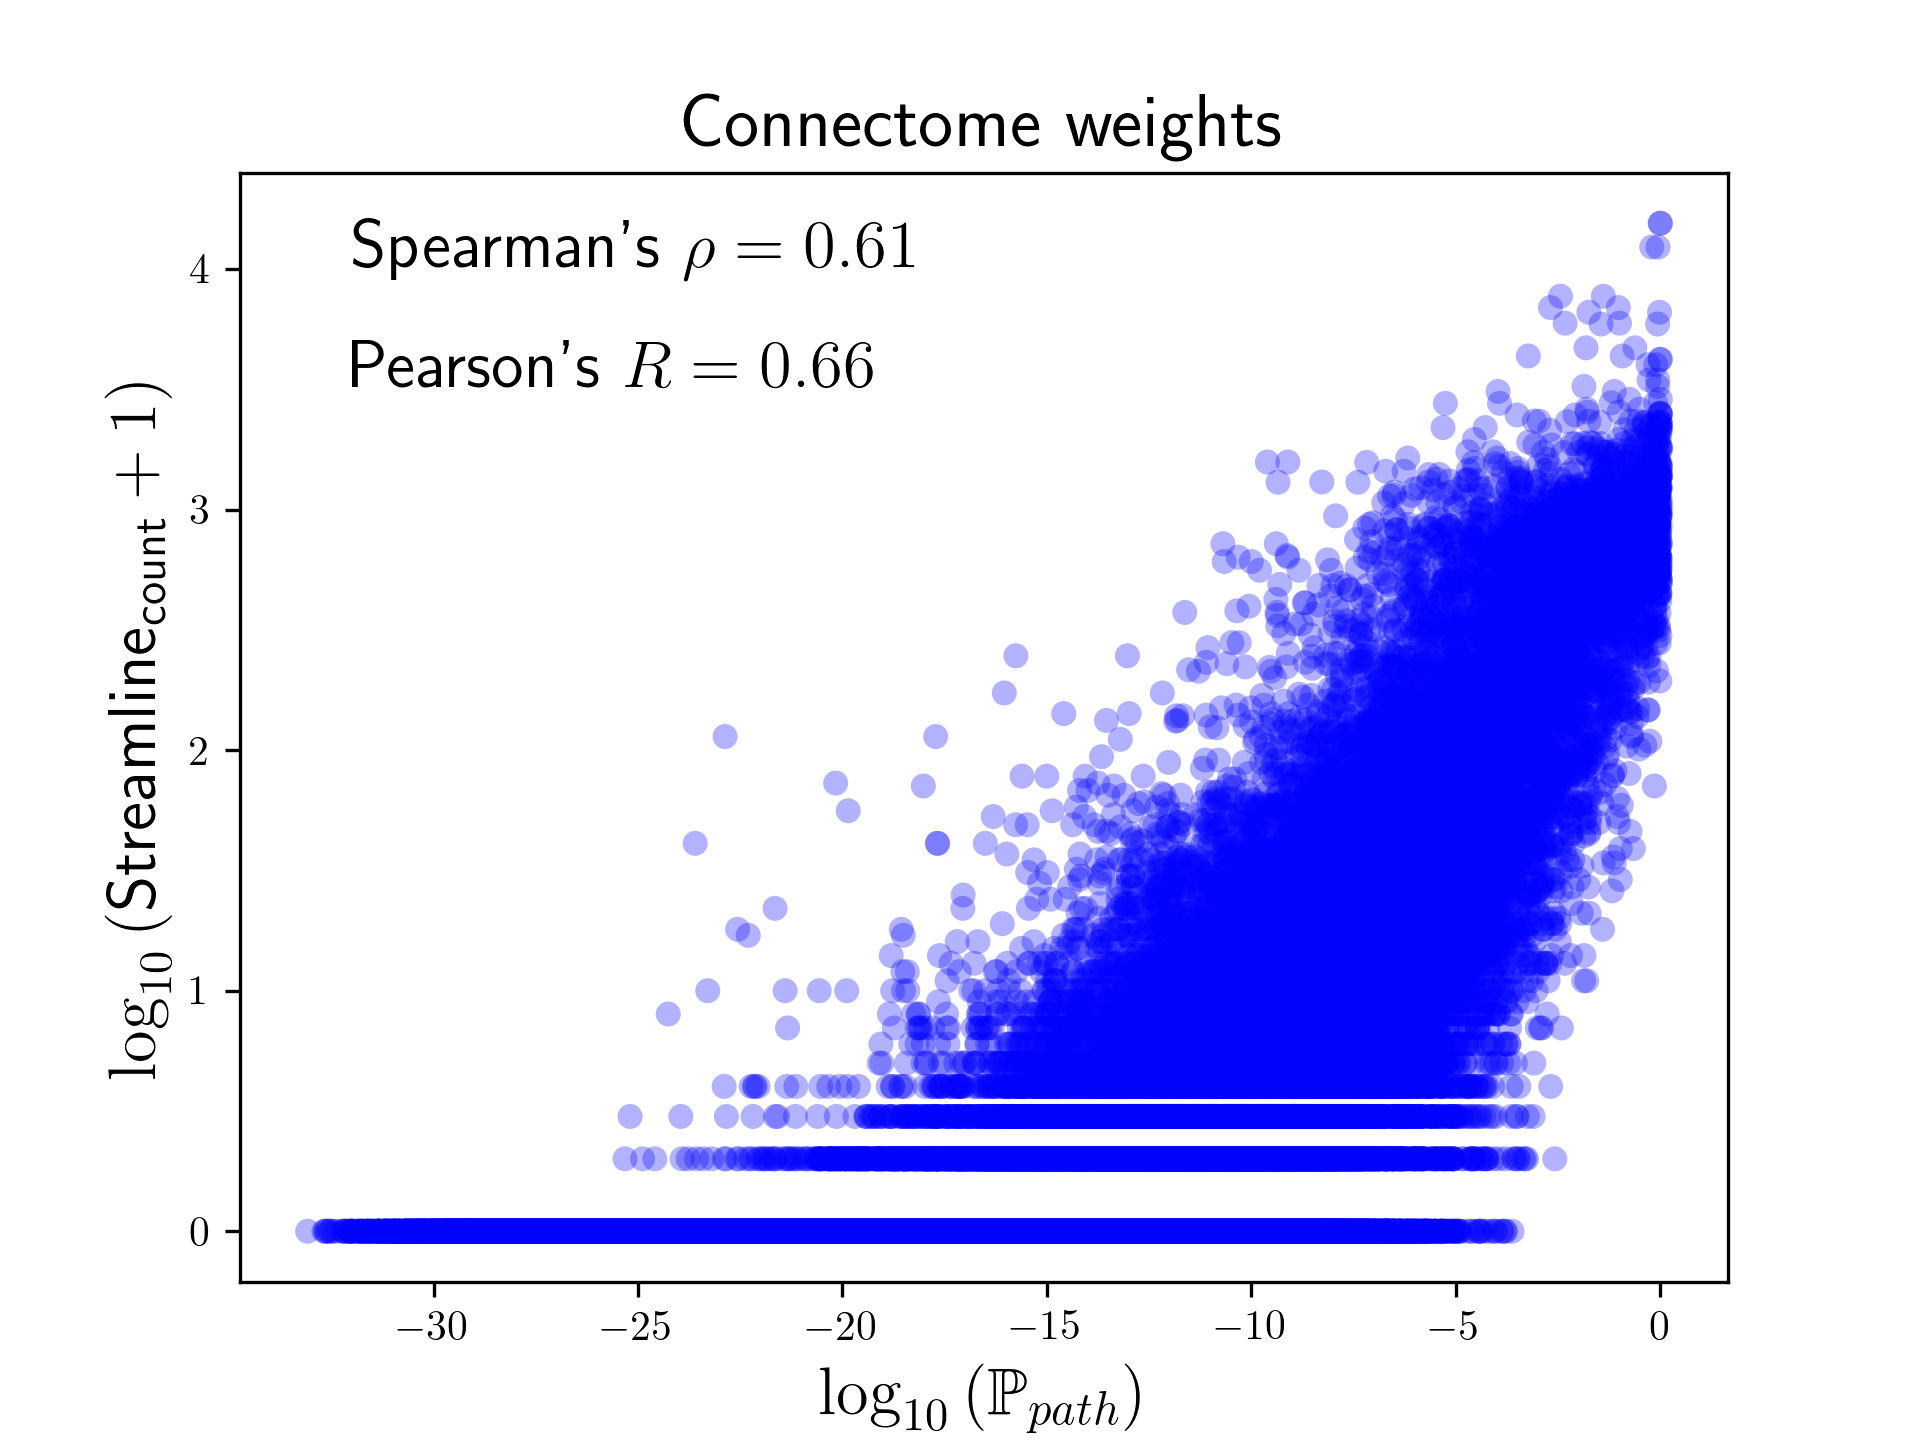
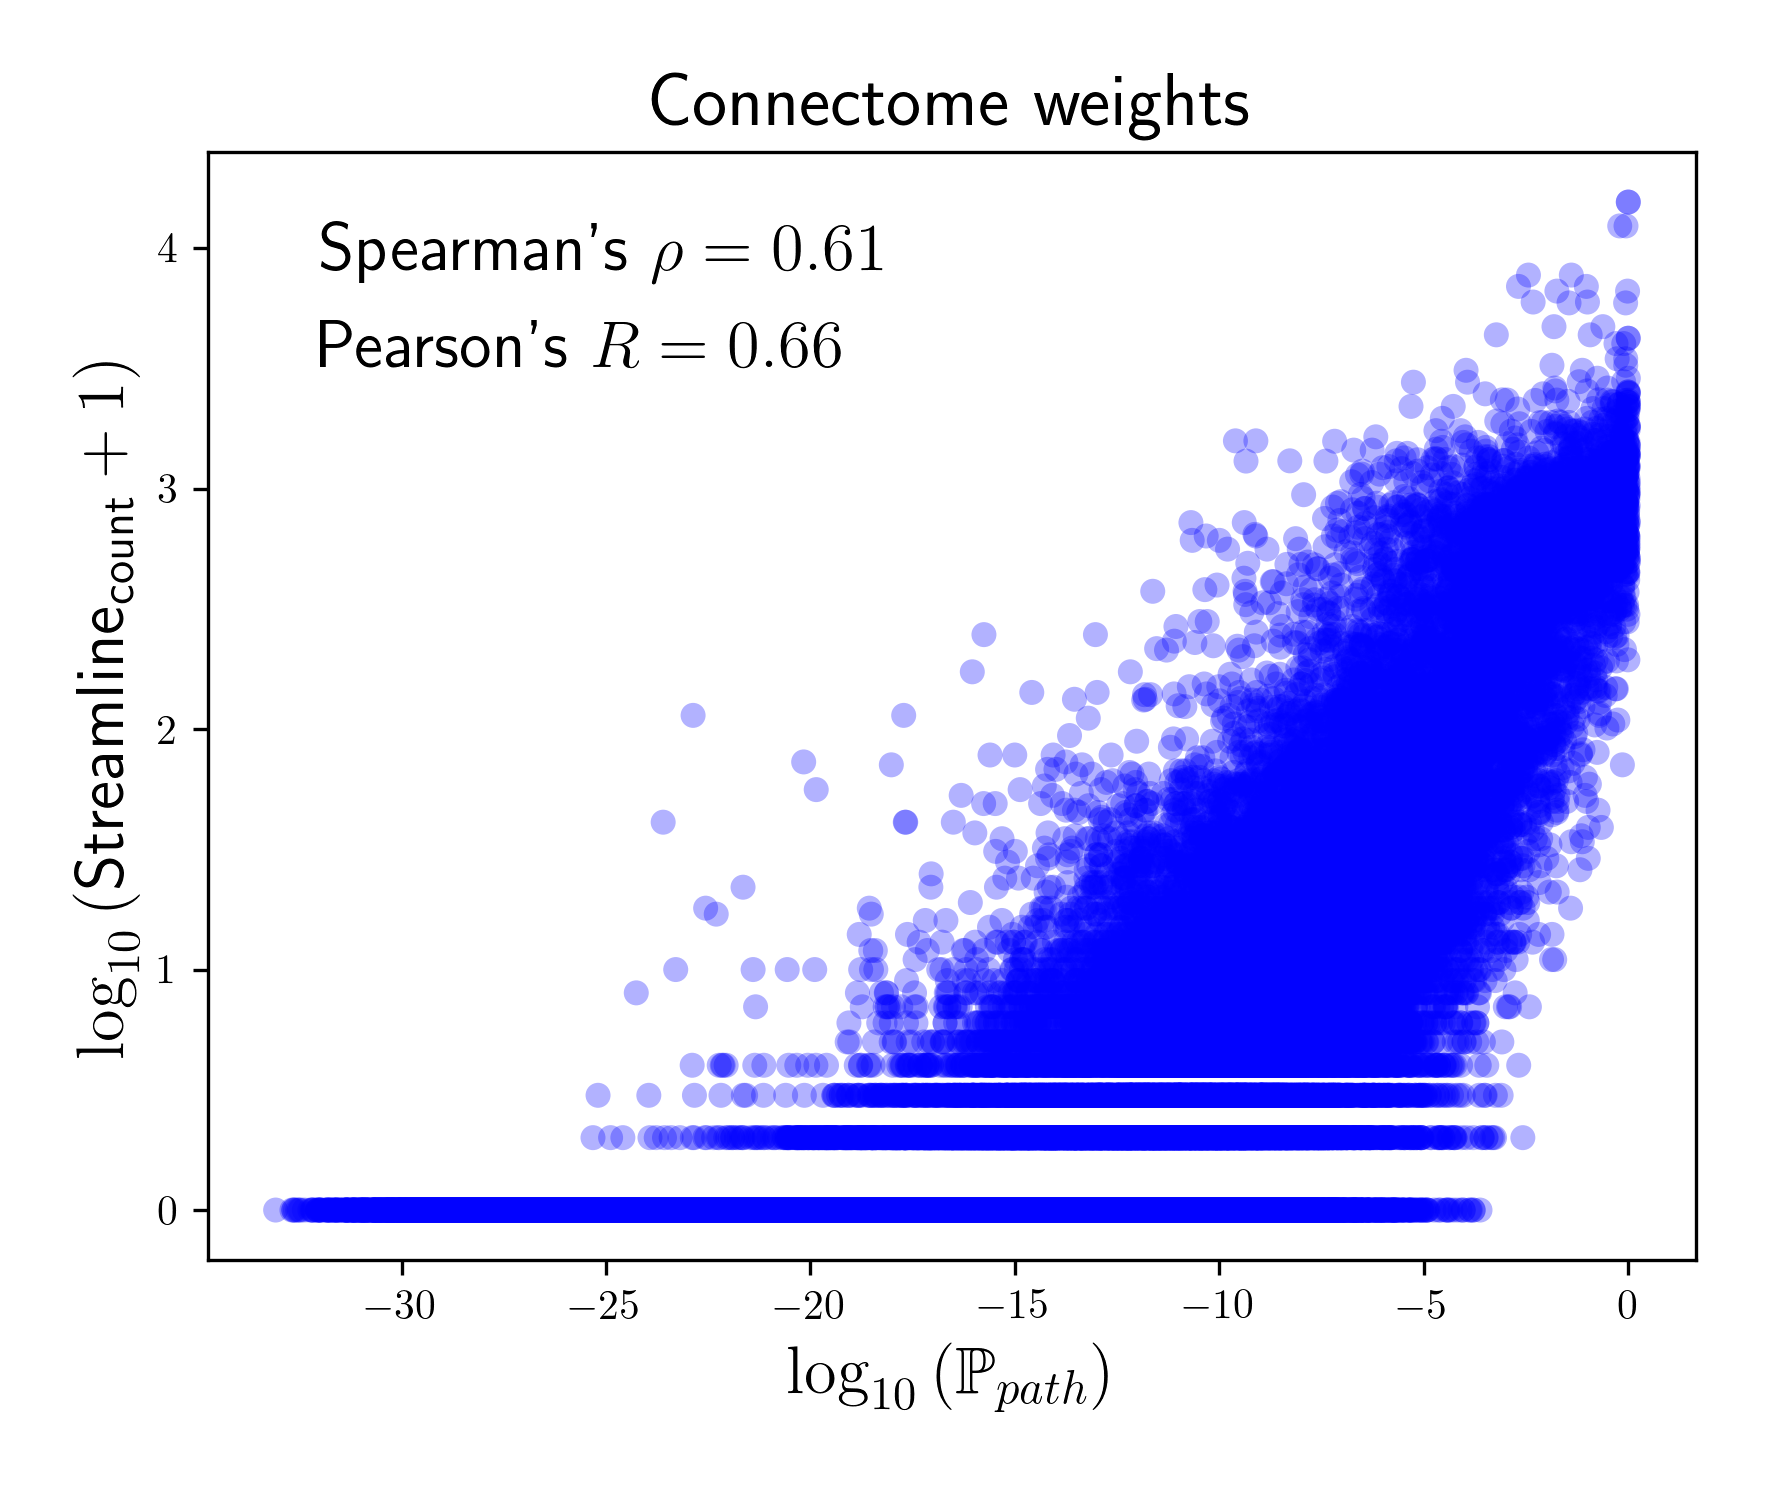
fig2 fig 3

diff --git a/ismrm2022/figure_correlation_cone_plain.py b/ismrm2022/figure_correlation_cone_plain.py
@@ -1,0 +1,90 @@
+import numpy as np
+import pylab as pl 
+from scipy.stats import spearmanr
+
+
+import matplotlib as mpl
+mpl.rcParams['text.usetex'] = True
+# Optionally, you can import packages
+mpl.rcParams['text.latex.preamble'] = r'\usepackage{{amsmath}}\usepackage{{amsfonts}}'
+
+
+
+mainpath = '/data/pt_02015/human_test_data_deconvolution_08088.b3/tp0/mrtrix/'
+
+
+graphcone_p = np.load(mainpath+'graph_mat_cone60_com2com_prob.npy')
+# graphcone_p = np.load(mainpath+'graph_mat_cone60_comroi2comroi_prob.npy')
+graph_p = np.load(mainpath+'graph_mat_com2com_prob.npy')
+# graph_p = np.load(mainpath+'graph_mat_roicom2roicom_prob.npy')
+
+N = graphcone_p.shape[0]
+
+idx_diag = np.diag_indices(N)
+idx_triu = np.triu_indices(N, 1)
+idx_tril = np.tril_indices(N, -1)
+idx_nodiag = (np.concatenate((idx_triu[0], idx_tril[0])),
+			  np.concatenate((idx_triu[1], idx_tril[1])))
+
+
+
+
+log10_prob_graphcone = np.log10(graphcone_p)[idx_nodiag]
+log10_prob_graph = np.log10(graph_p)[idx_nodiag]
+
+
+
+
+
+
+
+pl.figure()
+pl.scatter(log10_prob_graphcone.ravel(), log10_prob_graph.ravel(), 
+	       alpha=0.3, 
+	       color='blue',
+	       edgecolors='none')
+
+
+pl.xlabel(r'$\log_{{10}}{{(\mathbb{{P}}_{{path}}^{{\text{{oriented}}}})}}$', fontsize=16)
+pl.ylabel(r'$\log_{{10}}{{(\mathbb{{P}}_{{path}}^{{\text{{plain}}}})}}$', fontsize=16)
+pl.title('Plain Graph vs Oriented Graph ', fontsize=18)
+
+
+
+R = np.corrcoef(log10_prob_graphcone.ravel(), log10_prob_graph.ravel())[0,1]
+rho, _ = spearmanr(log10_prob_graphcone.ravel(), log10_prob_graph.ravel())
+
+
+x_pos_text = -37
+y_pos_text = -10
+offset_text = 5
+
+pl.text(x_pos_text, y_pos_text, 
+	    r'''Pearson's $R = {:.2f}$'''.format(R), fontsize=16)
+
+pl.text(x_pos_text, y_pos_text+offset_text, 
+	    r'''Spearman's $\rho = {:.2f}$'''.format(rho), fontsize=16)
+
+
+
+pl.savefig('/data/hu_paquette/work/tractoGRAPHy/ismrm2022/images/'+'cone_vs_plain.png',
+			dpi=300,
+			pad_inches=0.25,
+			transparent=True,
+			bbox_inches='tight')
+
+pl.close()
+
+# pl.show()
+
+
+
+
+
+
+
+
+
+
+
+

diff --git a/ismrm2022/figure_correlation_g_l.py b/ismrm2022/figure_correlation_g_l.py
@@ -1,0 +1,83 @@
+import numpy as np
+import pylab as pl 
+from scipy.stats import spearmanr
+
+
+import matplotlib as mpl
+mpl.rcParams['text.usetex'] = True
+# Optionally, you can import packages
+mpl.rcParams['text.latex.preamble'] = r'\usepackage{{amsmath}}\usepackage{{amsfonts}}'
+
+
+
+mainpath = '/data/pt_02015/human_test_data_deconvolution_08088.b3/tp0/mrtrix/'
+
+
+graphcone_g = np.load(mainpath+'graph_mat_cone60_com2com_geom.npy')
+graphcone_l = np.load(mainpath+'graph_mat_cone60_com2com_l.npy')
+
+N = graphcone_g.shape[0]
+
+idx_diag = np.diag_indices(N)
+idx_triu = np.triu_indices(N, 1)
+idx_tril = np.tril_indices(N, -1)
+idx_nodiag = (np.concatenate((idx_triu[0], idx_tril[0])),
+			  np.concatenate((idx_triu[1], idx_tril[1])))
+
+
+
+
+geom_graph = graphcone_g[idx_nodiag]
+len_graph = graphcone_l[idx_nodiag]
+
+
+pl.figure()
+pl.scatter(geom_graph.ravel(), len_graph.ravel(), 
+	       alpha=0.3, 
+	       color='blue',
+	       edgecolors='none')
+
+
+pl.xlabel(r'$$\sqrt[n]{{\prod_{{i\in\text{{path}}}}^{{n = |\text{{path}}|}} p_i}}$$', fontsize=16)
+pl.ylabel(r'path length (\# vertex)', fontsize=16)
+pl.title('Geometric Mean of Path Probability vs Length', fontsize=18)
+
+
+
+R = np.corrcoef(geom_graph.ravel(), len_graph.ravel())[0,1]
+rho, _ = spearmanr(geom_graph.ravel(), len_graph.ravel())
+
+
+x_pos_text = 0.15
+y_pos_text = 110
+offset_text = 7
+
+pl.text(x_pos_text, y_pos_text, 
+	    r'''Pearson's $R = {:.2f}$'''.format(R), fontsize=16)
+
+pl.text(x_pos_text, y_pos_text+offset_text, 
+	    r'''Spearman's $\rho = {:.2f}$'''.format(rho), fontsize=16)
+
+
+
+pl.savefig('/data/hu_paquette/work/tractoGRAPHy/ismrm2022/images/'+'geom_len_correlation.png',
+			dpi=300,
+			pad_inches=0.25,
+			transparent=True,
+			bbox_inches='tight')
+
+pl.close()
+
+# pl.show()
+
+
+
+
+
+
+
+
+
+
+
+

diff --git a/ismrm2022/figure_correlation_p_l.py b/ismrm2022/figure_correlation_p_l.py
@@ -1,0 +1,83 @@
+import numpy as np
+import pylab as pl 
+from scipy.stats import spearmanr
+
+
+import matplotlib as mpl
+mpl.rcParams['text.usetex'] = True
+# Optionally, you can import packages
+mpl.rcParams['text.latex.preamble'] = r'\usepackage{{amsmath}}\usepackage{{amsfonts}}'
+
+
+
+mainpath = '/data/pt_02015/human_test_data_deconvolution_08088.b3/tp0/mrtrix/'
+
+
+graphcone_p = np.load(mainpath+'graph_mat_cone60_com2com_prob.npy')
+graphcone_l = np.load(mainpath+'graph_mat_cone60_com2com_l.npy')
+
+N = graphcone_p.shape[0]
+
+idx_diag = np.diag_indices(N)
+idx_triu = np.triu_indices(N, 1)
+idx_tril = np.tril_indices(N, -1)
+idx_nodiag = (np.concatenate((idx_triu[0], idx_tril[0])),
+			  np.concatenate((idx_triu[1], idx_tril[1])))
+
+
+
+
+log10_prob_graph = np.log10(graphcone_p)[idx_nodiag]
+len_graph = graphcone_l[idx_nodiag]
+
+
+pl.figure()
+pl.scatter(log10_prob_graph.ravel(), len_graph.ravel(), 
+	       alpha=0.3, 
+	       color='blue',
+	       edgecolors='none')
+
+
+pl.xlabel(r'$\log_{{10}}{{(\mathbb{{P}}_{{path}})}}$', fontsize=16)
+pl.ylabel(r'path length (\# vertex)', fontsize=16)
+pl.title('Shortest Path Probability vs Length', fontsize=18)
+
+
+
+R = np.corrcoef(log10_prob_graph.ravel(), len_graph.ravel())[0,1]
+rho, _ = spearmanr(log10_prob_graph.ravel(), len_graph.ravel())
+
+
+x_pos_text = -38
+y_pos_text = 10
+offset_text = 9
+
+pl.text(x_pos_text, y_pos_text, 
+	    r'''Pearson's $R = {:.2f}$'''.format(R), fontsize=16)
+
+pl.text(x_pos_text, y_pos_text+offset_text, 
+	    r'''Spearman's $\rho = {:.2f}$'''.format(rho), fontsize=16)
+
+
+
+pl.savefig('/data/hu_paquette/work/tractoGRAPHy/ismrm2022/images/'+'prob_len_correlation.png',
+			dpi=300,
+			pad_inches=0.25,
+			transparent=True,
+			bbox_inches='tight')
+
+pl.close()
+
+# pl.show()
+
+
+
+
+
+
+
+
+
+
+
+

diff --git a/ismrm2022/figure_loglog_correlation_tc_p.py b/ismrm2022/figure_loglog_correlation_tc_p.py
@@ -55,7 +55,7 @@ rho, _ = spearmanr(log10_prob_graph_row_norm.ravel(), log_tc_plus_1.ravel())
 
 x_pos_text = -32
 y_pos_text = 3.5
-offset_text = 0.5
+offset_text = 0.4
 # pl.text(x_pos_text, y_pos_text, 'R^2 = {:.2f}'.format(R2))
 pl.text(x_pos_text, y_pos_text, 
 	    r'''Pearson's $R = {:.2f}$'''.format(R), fontsize=16)
@@ -67,8 +67,9 @@ pl.text(x_pos_text, y_pos_text+offset_text,
 
 pl.savefig('/data/hu_paquette/work/tractoGRAPHy/ismrm2022/images/'+'loglog_correlation_tc_p.png',
 			dpi=300,
-			pad_inches=0,
-			transparent=True)
+			pad_inches=0.25,
+			transparent=True,
+			bbox_inches='tight')
 
 pl.close()
 
